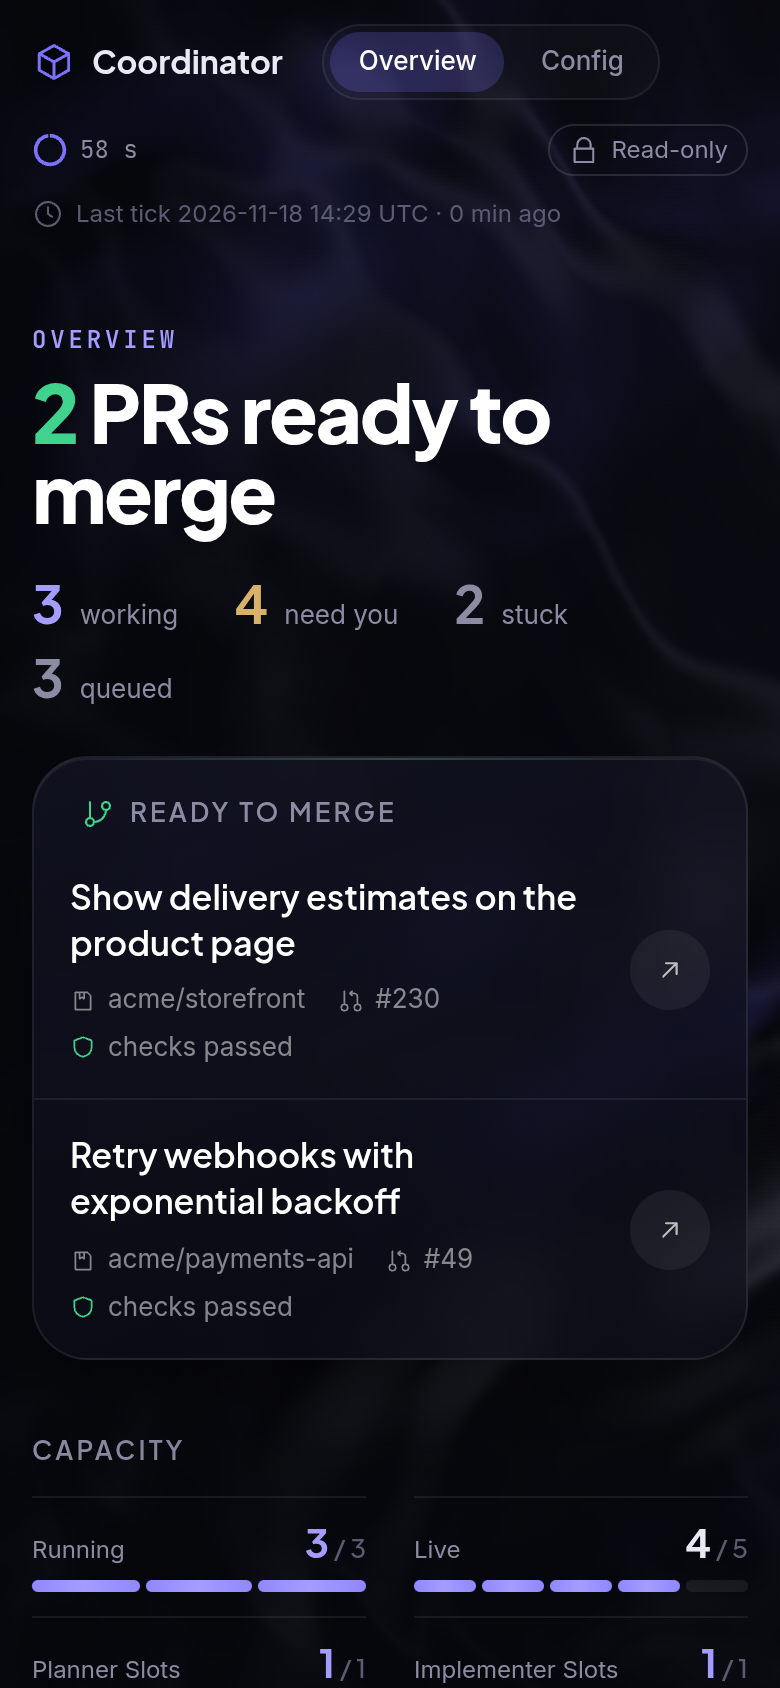
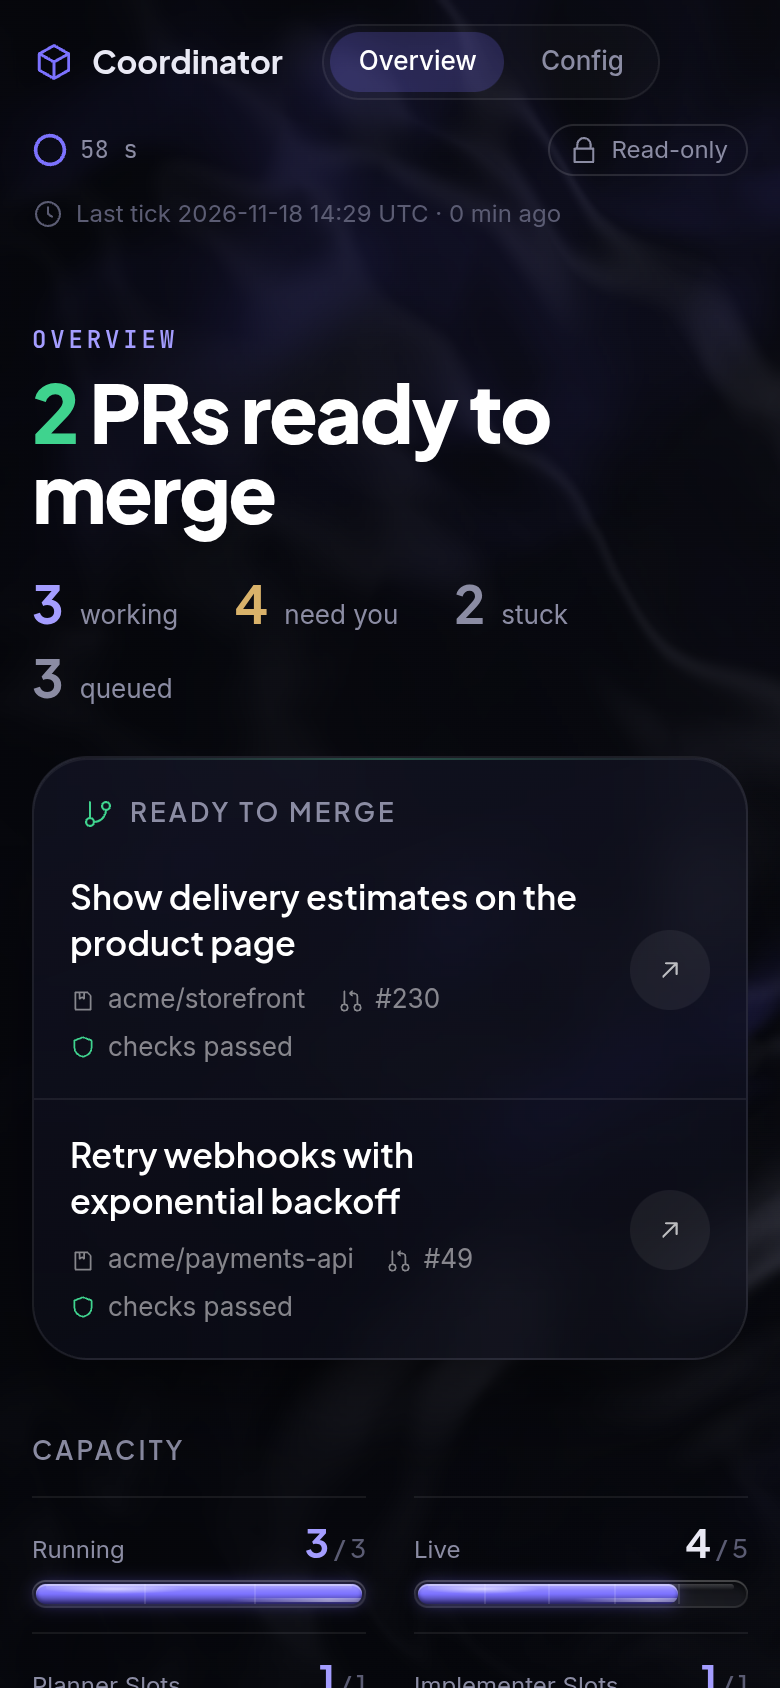
feat: liquid glass Capacity meters (#113, REQ-003-24) (#114)
Replace the meters' fast flowing gradient with option D of the Mockups: a
frosted glass tube with a static reflection, holding a glossy violet liquid
with rounded ends. Only light moves inside the liquid: a highlight glides
through it (11 s) and refracted light moves along its bottom the other way
(15 s), both back and forth. Slot marks are etched into the glass up to 12.

The tube is a grid of one column per Slot (tenths above 12) and the liquid
spans the used ones, so its width needs no inline style under the CSP.

Claude-Session: https://claude.ai/code/session_0137xE8DMM6dJEsjjDKnsnn9

diff --git a/test/dashboard-html.test.ts b/test/dashboard-html.test.ts
@@ -220,6 +220,65 @@ describe("dashboard html", () => {
     expect(capacity).toContain('aria-label="Worktrees: 1 of 3"');
   });
 
+  describe("REQ-003-24 liquid glass meters", () => {
+    /** The markup of one meter, rendered on its own in Capacity. */
+    const meter = (used: number, limit: number) => {
+      const html = renderDashboard({ ...dashboardView(snap, config, NOW), capacity: [{ label: "Live", used, limit }] });
+      return html.slice(html.indexOf('role="meter"'), html.indexOf("</li>", html.indexOf('role="meter"')));
+    };
+    const liquid = (html: string) => html.match(/<span class="liquid ([^"]*)"/)?.[1];
+    const slots = (html: string) => html.match(/<span class="slots[^"]*">((?:<i><\/i>)*)<\/span>/)?.[1]?.length;
+
+    test("the liquid fills used out of the limit inside a glass tube, with Slot marks etched in up to 12", () => {
+      const live = meter(4, 5);
+      expect(live).toMatch(/<span class="tube [^"]*grid-cols-5[^"]*">/);
+      expect(liquid(live)).toBe("col-span-4");
+      expect(slots(live)).toBe("<i></i>".length * 5);
+      expect(live).toContain('aria-valuemin="0" aria-valuemax="5" aria-valuenow="4" aria-label="Live: 4 of 5"');
+    });
+
+    test("an empty meter has no liquid, a full one fills the whole tube", () => {
+      expect(meter(0, 3)).toContain('class="tube ');
+      expect(liquid(meter(0, 3))).toBeUndefined();
+      expect(liquid(meter(3, 3))).toBe("col-span-3");
+      expect(liquid(meter(5, 3))).toBe("col-span-3");
+      expect(liquid(meter(12, 12))).toBe("col-span-12");
+    });
+
+    test("above 12 Slots the tube has no Slot marks and the liquid fills to the nearest tenth", () => {
+      const big = meter(7, 20);
+      expect(big).toMatch(/<span class="tube [^"]*grid-cols-10[^"]*">/);
+      expect(liquid(big)).toBe("col-span-4");
+      expect(big).not.toContain('class="slots');
+      expect(liquid(meter(20, 20))).toBe("col-span-10");
+    });
+
+    test("only light moves inside the liquid, slowly (loops of 10 s or more), and it is still for reduced motion", () => {
+      const css = asset("dashboard.css");
+      const rules = [...css.matchAll(/\.liquid(?:::?[a-z-]+)? \{([^}]*)\}/g)].map((m) => m[1] ?? "");
+      const animations = rules.flatMap((r) => [...r.matchAll(/animation: ([^;]+);/g)].map((m) => m[1] ?? ""));
+      expect(animations.length).toBeGreaterThanOrEqual(2);
+      for (const value of animations) {
+        // An animation may come from a theme variable (`var(--animate-glide)`).
+        const a = value.replace(
+          /^var\((--[\w-]+)\)$/,
+          (_, v: string) => css.match(new RegExp(`${v}: ([^;]+);`))?.[1] ?? value,
+        );
+        const seconds = Number(a.match(/([\d.]+)s\b/)?.[1]);
+        expect(seconds).toBeGreaterThanOrEqual(10);
+        // Light glides via transform only: no surface or width moves.
+        const name = a.split(" ")[0];
+        const frames = css.match(new RegExp(`@keyframes ${name} \\{([\\s\\S]*?)\\n\\s*\\}`))?.[1] ?? "";
+        expect(frames).toContain("transform");
+        expect(frames).not.toMatch(/width|height|background-position/);
+      }
+      expect(css).not.toContain(".gauge");
+      expect(css).not.toContain("@keyframes flow");
+      const reduced = css.slice(css.indexOf("@media (prefers-reduced-motion: reduce)"));
+      expect(reduced).toMatch(/:after \{[^}]*animation: none/);
+    });
+  });
+
   test("REQ-003-01 each session shows its model and its Remote Control name, with a copy button only for scripts", () => {
     const html = overview();
     expect(html).toContain("claude-sonnet-5-5");

diff --git a/src/dashboard/styles.css b/src/dashboard/styles.css
@@ -61,7 +61,8 @@
   --ease-calm: cubic-bezier(0.2, 0.8, 0.2, 1);
 
   --animate-fade: fade 3.6s ease-in-out infinite;
-  --animate-flow: flow 6s linear infinite;
+  --animate-glide: glide 11s ease-in-out infinite alternate;
+  --animate-refract: refract 15s ease-in-out infinite alternate;
   --animate-slide: slide 8s linear infinite;
 
   /* ---- Motion: slow and calm ---- */
@@ -74,9 +75,21 @@
       opacity: 0.35;
     }
   }
-  @keyframes flow {
+  /* REQ-003-24: light inside a meter's liquid glides back and forth; nothing else in the tube moves. */
+  @keyframes glide {
+    from {
+      transform: translateX(-30%);
+    }
     to {
-      background-position: 300% 0;
+      transform: translateX(180%);
+    }
+  }
+  @keyframes refract {
+    from {
+      transform: translateX(110%);
+    }
+    to {
+      transform: translateX(-10%);
     }
   }
   @keyframes slide {
@@ -244,11 +257,77 @@
     transform: scaleY(1);
   }
 
-  /* A gauge filling in indigo that slowly flows. */
-  .gauge {
-    background: linear-gradient(90deg, var(--color-acc-lo), var(--color-acc), var(--color-acc-hi), var(--color-acc));
-    background-size: 300% 100%;
-    animation: var(--animate-flow);
+  /*
+   * REQ-003-24: a Capacity meter is a glass tube (frosted, a lit top rim, an inner shadow and a
+   * static reflection on top) holding a glossy violet liquid, inset 2px, with rounded ends. Only
+   * light moves, slowly: a highlight glides through the liquid and refracted light moves along its
+   * bottom the other way. Slot marks are faint lines etched into the glass.
+   */
+  .tube {
+    position: relative;
+    height: 14px;
+    padding: 2px;
+    border-radius: 9999px;
+    background: linear-gradient(180deg, rgb(255 255 255 / 0.03), rgb(255 255 255 / 0.07));
+    box-shadow:
+      inset 0 1px 0 rgb(255 255 255 / 0.16),
+      inset 0 0 0 1px rgb(255 255 255 / 0.09),
+      inset 0 2px 4px rgb(0 0 0 / 0.55);
+    backdrop-filter: blur(6px);
+  }
+  .tube::after {
+    content: "";
+    position: absolute;
+    top: 2px;
+    right: 7px;
+    left: 7px;
+    z-index: 2;
+    height: 3px;
+    border-radius: 9999px;
+    background: linear-gradient(180deg, rgb(255 255 255 / 0.2), rgb(255 255 255 / 0));
+    pointer-events: none;
+  }
+  .liquid {
+    position: relative;
+    overflow: hidden;
+    border-radius: 9999px;
+    background: linear-gradient(180deg, var(--color-acc-hi), var(--color-acc) 50%, var(--color-acc-lo));
+    box-shadow:
+      0 0 8px rgb(124 114 255 / 0.45),
+      inset 0 1px 0 rgb(255 255 255 / 0.35),
+      inset 0 -1px 2px rgb(20 16 70 / 0.55);
+  }
+  .liquid::before,
+  .liquid::after {
+    content: "";
+    position: absolute;
+    left: 0;
+    border-radius: 9999px;
+  }
+  /* The soft highlight gliding through the liquid. */
+  .liquid::before {
+    top: 0;
+    width: 45%;
+    height: 55%;
+    background: radial-gradient(ellipse at center, rgb(255 255 255 / 0.6), rgb(255 255 255 / 0) 70%);
+    animation: var(--animate-glide);
+  }
+  /* The refracted light along the bottom. */
+  .liquid::after {
+    bottom: 1px;
+    width: 60%;
+    height: 2px;
+    background: linear-gradient(90deg, rgb(255 255 255 / 0), rgb(255 255 255 / 0.45), rgb(255 255 255 / 0));
+    animation: var(--animate-refract);
+  }
+  .slots {
+    position: absolute;
+    inset: 2px;
+    z-index: 1;
+    pointer-events: none;
+  }
+  .slots > i + i {
+    border-left: 1px solid rgb(255 255 255 / 0.12);
   }
   /* A running session's bar. */
   .flowing {

diff --git a/src/dashboard/html.tsx b/src/dashboard/html.tsx
@@ -183,12 +183,53 @@ const WIDTH = [
 ];
 const width = (percent: number) => WIDTH[Math.max(0, Math.min(10, Math.round(percent / 10)))];
 
-/** REQ-003-12: used out of the limit, as pips up to 12 and as a bar above. */
+/** Grid columns and spans for a meter's tube, spelled out so Tailwind finds them (index = count). */
+const COLS = [
+  "",
+  "grid-cols-1",
+  "grid-cols-2",
+  "grid-cols-3",
+  "grid-cols-4",
+  "grid-cols-5",
+  "grid-cols-6",
+  "grid-cols-7",
+  "grid-cols-8",
+  "grid-cols-9",
+  "grid-cols-10",
+  "grid-cols-11",
+  "grid-cols-12",
+];
+const SPAN = [
+  "",
+  "col-span-1",
+  "col-span-2",
+  "col-span-3",
+  "col-span-4",
+  "col-span-5",
+  "col-span-6",
+  "col-span-7",
+  "col-span-8",
+  "col-span-9",
+  "col-span-10",
+  "col-span-11",
+  "col-span-12",
+];
+/** Slot marks are etched into the tube up to this many Slots; above it the liquid fills to the nearest tenth. */
+const MAX_SLOT_MARKS = 12;
+
+/**
+ * REQ-003-12, REQ-003-24: used out of the limit, as a glossy liquid in a glass tube. The tube is a
+ * grid of one column per Slot (of tenths above 12 Slots) and the liquid spans the used ones, so its
+ * width needs no inline style (the CSP forbids them).
+ */
 function Meter({ m }: { m: MeterView }) {
   const used = Math.min(m.used, m.limit);
   const full = m.used >= m.limit;
+  const marked = m.limit <= MAX_SLOT_MARKS;
+  const cols = marked ? m.limit : 10;
+  const filled = marked ? used : Math.round((used / m.limit) * 10);
   return (
-    // biome-ignore lint/a11y/useSemanticElements: a <meter> can't hold the label and the pips; the list item carries the role
+    // biome-ignore lint/a11y/useSemanticElements: a <meter> can't hold the label and the tube; the list item carries the role
     <li
       className="grid grid-cols-[1fr_auto] items-baseline gap-x-2 gap-y-1.5 border-line border-t py-3"
       role="meter"
@@ -202,18 +243,17 @@ function Meter({ m }: { m: MeterView }) {
         {m.used}
         <span className="font-medium text-[13px] text-faint"> / {m.limit}</span>
       </span>
-      {m.limit <= 12 ? (
-        <span className="col-span-full flex h-1.5 gap-[3px]">
-          {Array.from({ length: m.limit }, (_, i) => (
-            // biome-ignore lint/suspicious/noArrayIndexKey: the pips are identical and never reorder
-            <i key={i} className={`flex-1 rounded-[3px] ${i < used ? "gauge" : "bg-white/7"}`} />
-          ))}
-        </span>
-      ) : (
-        <span className="col-span-full flex h-1.5 overflow-hidden rounded-[3px] bg-white/7">
-          <span className={`gauge block h-full ${width((used / m.limit) * 100)}`} />
-        </span>
-      )}
+      <span className={`tube col-span-full grid ${COLS[cols]}`}>
+        {filled > 0 && <span className={`liquid ${SPAN[filled]}`} />}
+        {marked && (
+          <span className={`slots grid ${COLS[cols]}`}>
+            {Array.from({ length: m.limit }, (_, i) => (
+              // biome-ignore lint/suspicious/noArrayIndexKey: the Slot marks are identical and never reorder
+              <i key={i} />
+            ))}
+          </span>
+        )}
+      </span>
     </li>
   );
 }

diff --git a/docs/specs/003-dashboard/spec.md b/docs/specs/003-dashboard/spec.md
@@ -182,6 +182,15 @@ The Owner wants to see at a glance, also on a phone, what the Coordinator is doi
 - **Then** a test fails and names `bun run screenshots` as the fix, and regenerating the screenshots makes it pass
 - **And** `bun test` needs no browser
 
+### REQ-003-24 Liquid glass meters
+
+- **Given** the Overview shows Capacity (REQ-003-12)
+- **When** a meter has used Slots
+- **Then** its filled part is a glossy liquid with rounded ends inside a glass tube (frosted, a lit rim and a static reflection), its width used out of the limit: empty at 0, the whole tube when full
+- **And** up to 12 Slots, faint Slot marks are etched into the glass; above 12 there are none
+- **And** only light moves inside the liquid (a highlight gliding through it, refracted light along its bottom), slowly: no surface waves, no bright band sweeping across the bar, and no loop shorter than 10 s
+- **And** with reduced motion it is still (REQ-003-14)
+
 ## Out of scope
 
 - Write actions (approve, retry, merge, edit settings). Approval stays on GitHub, where the Owner's identity is checked.
@@ -225,4 +234,5 @@ The Owner wants to see at a glance, also on a phone, what the Coordinator is doi
 | REQ-003-20 | `dashboard html > REQ-003-20 Activity: one header with the counts, Recent, Now and Next as one timeline, stacked Now, Next, Recent on a phone`, `… REQ-003-11 / REQ-003-12 / REQ-003-20 / REQ-003-02 the Overview shows its sections in order` (Activity holds the three parts, the band only the Pipeline and footer); no horizontal scroll at 360px measured in Chrome, desktop and phone screenshots on the PR (#104)                                                                                                                                | pass                                                                                                               |
 | REQ-003-21 | `dashboard screenshots > REQ-003-21 the README shows every screenshot, and each is a committed PNG`, `… REQ-003-21 the pages are rendered from made-up data only …`; the images themselves: looked at after `bun run screenshots`, attached to the PR (#77)                                                                                                                                                                                                                                                                                             | pass                                                                                                               |
 | REQ-003-22 | `dashboard screenshots > REQ-003-22 the fingerprint is stable for the same input and changes with the HTML or an asset`, `… REQ-003-22 the committed screenshots were made from the current dashboard …` (seen failing after a change to `styles.css` and to `html.tsx`, passing after `bun run screenshots`)                                                                                                                                                                                                                                           | pass                                                                                                               |
+| REQ-003-24 | `dashboard html > REQ-003-24 liquid glass meters > …` (4 tests: tube, liquid span and Slot marks for 4 of 5 with the aria values; empty, full and over-full; above 12 Slots no marks and tenths; the liquid's animations are transforms of 10 s or more and the reduced-motion rule covers `::before`/`::after`); the motion judged in Chrome by zoomed captures at 0, 4 and 8 s, desktop and phone screenshots on the PR (#113)                                                                                                                        | pass                                                                                                               |
 | Acceptance | #72: desktop, phone and Config screenshots from fixture data before and after the React migration look the same; manual: open it on a phone over Tailscale and on desktop, compare with the mockup in #41, screenshots on the PR; without a `dashboard` block, an SSH tunnel to `127.0.0.1:8080` loads the page                                                                                                                                                                                                                                         | #87: desktop and phone screenshots from fixture data match the mockup; on a real phone and the hover effects: open |
